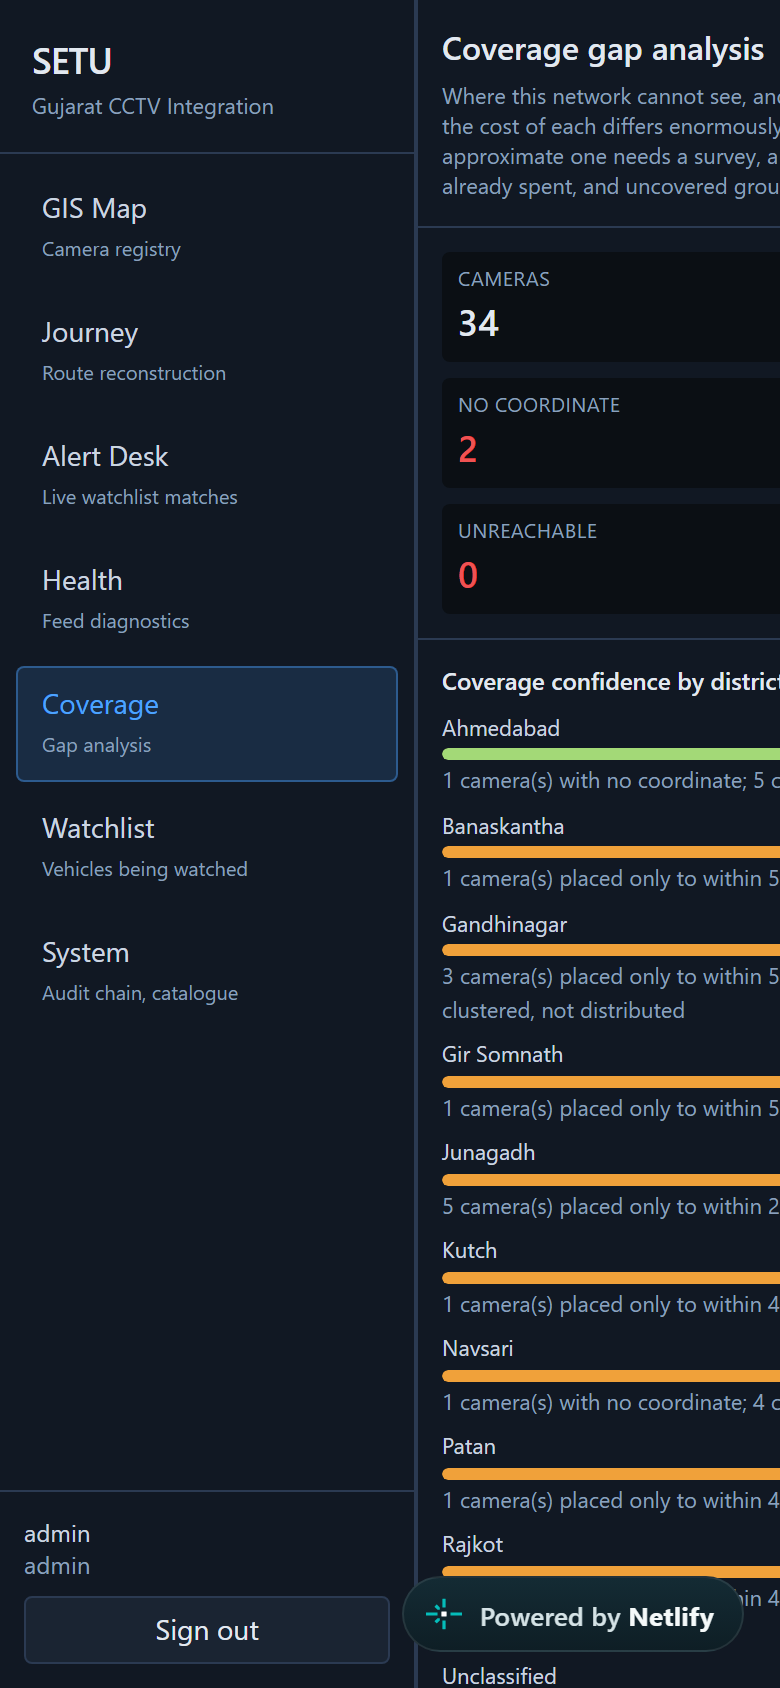
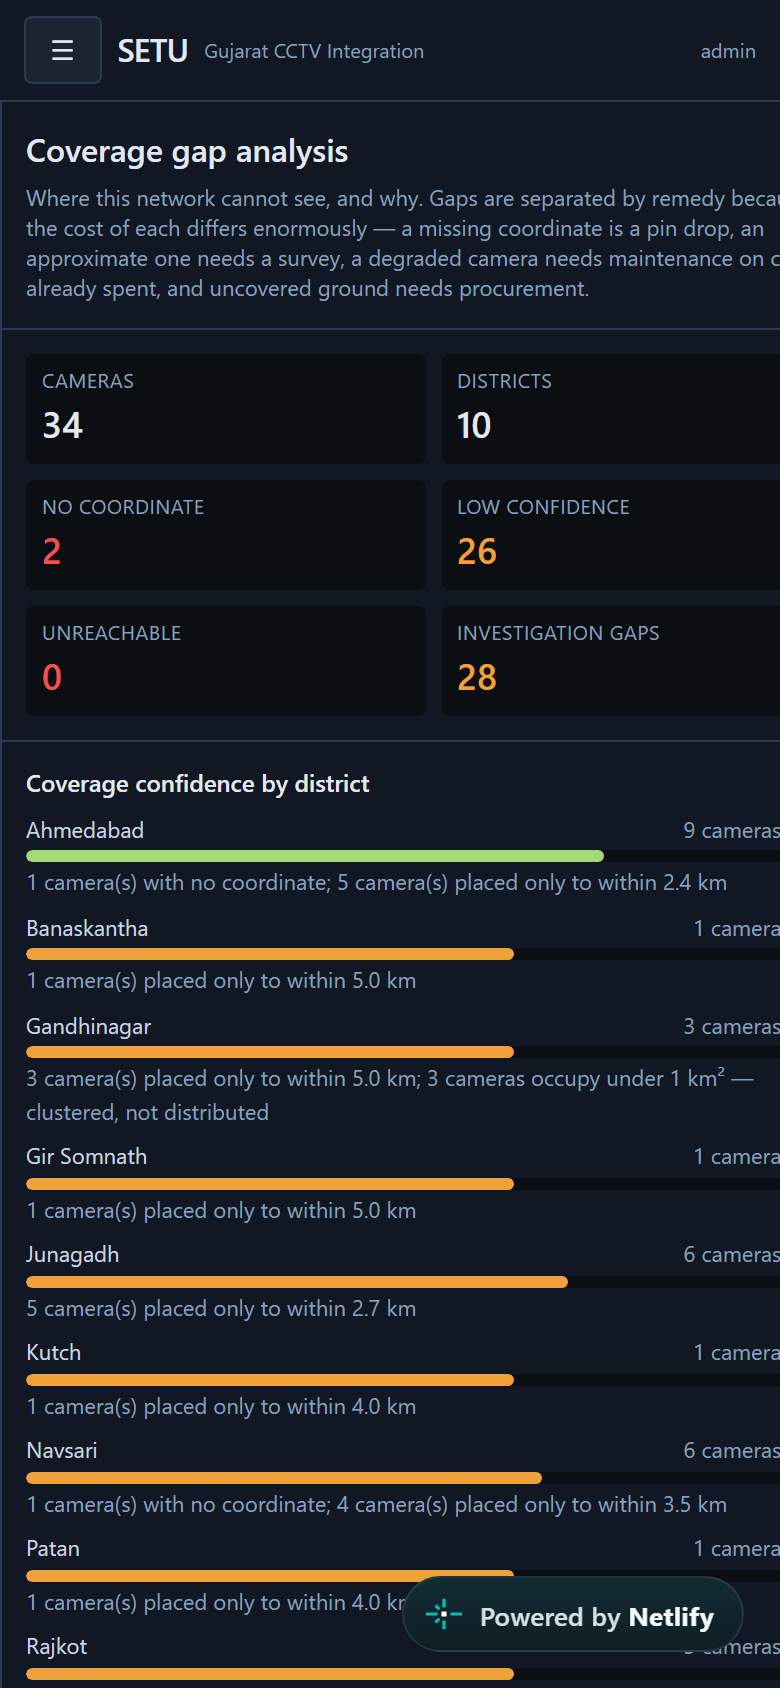
Give the Health table its own scroller instead of clipping it
The strengthened audit found the Health table clipped at every width tested,
1024px included -- ten columns in a container narrower than they need, with
overflow-hidden above meaning the surplus was cut off rather than scrolled. Four
elements past the right edge on a phone; three on a laptop.

It now scrolls inside its own container, with a min-width so the columns do not
collapse into an unreadable concertina on the way down. The rule this follows is
the one already in the nginx config and the artifact guidance: wide content
scrolls inside itself, the page body never scrolls sideways.

Coverage's district rows had the same shape of problem for a different reason --
a flex row with no min-w-0, so a long district name pushed the camera count off
the edge instead of truncating. The label shrinks now and the figure holds.

Changed region(s): [[0.0, 0.0, 1.0, 1.0], [0.2462, 0.2156, 0.2769, 0.2464], [0.0, 0.1848, 0.0308, 0.2156]]

diff --git a/frontend/src/pages/HealthPage.tsx b/frontend/src/pages/HealthPage.tsx
@@ -109,7 +109,14 @@ export default function HealthPage() {
           />
         </div>
 
-        <table className="w-full text-xs">
+        {/*
+          The table has ten columns and does not fit a phone. It gets its own
+          horizontal scroller rather than being allowed to widen the page: wide content
+          scrolls inside its container, the page body never does. `min-w-[52rem]` stops
+          the columns collapsing into an unreadable concertina on the way.
+        */}
+        <div className="overflow-x-auto">
+        <table className="w-full min-w-[52rem] text-xs">
           <thead className="sticky top-0 bg-ink-800 border-b border-edge">
             <tr className="text-left text-muted">
               <th className="px-3 py-2 font-medium">Camera</th>
@@ -175,6 +182,7 @@ export default function HealthPage() {
             })}
           </tbody>
         </table>
+        </div>
 
         <div className="p-3 text-[11px] text-muted max-w-3xl leading-snug">
           <strong className="text-slate-300">Declared versus measured frame rate.</strong>{" "}

diff --git a/frontend/src/pages/GapsPage.tsx b/frontend/src/pages/GapsPage.tsx
@@ -173,9 +173,11 @@ export default function GapsPage() {
             <div className="space-y-1.5">
               {data.districts.map((d) => (
                 <div key={d.district} className="text-[11px]">
-                  <div className="flex items-center justify-between gap-2">
-                    <span className="text-slate-300">{d.district}</span>
-                    <span className="text-muted">
+                  {/* min-w-0 on the label so a long district name shrinks rather
+                      than shoving the camera count off the right edge on a phone. */}
+                  <div className="flex items-center justify-between gap-2 min-w-0">
+                    <span className="text-slate-300 truncate min-w-0">{d.district}</span>
+                    <span className="text-muted whitespace-nowrap shrink-0">
                       {d.cameras_total} camera{d.cameras_total !== 1 ? "s" : ""} ·{" "}
                       {(d.coverage_confidence * 100).toFixed(0)}%
                     </span>
